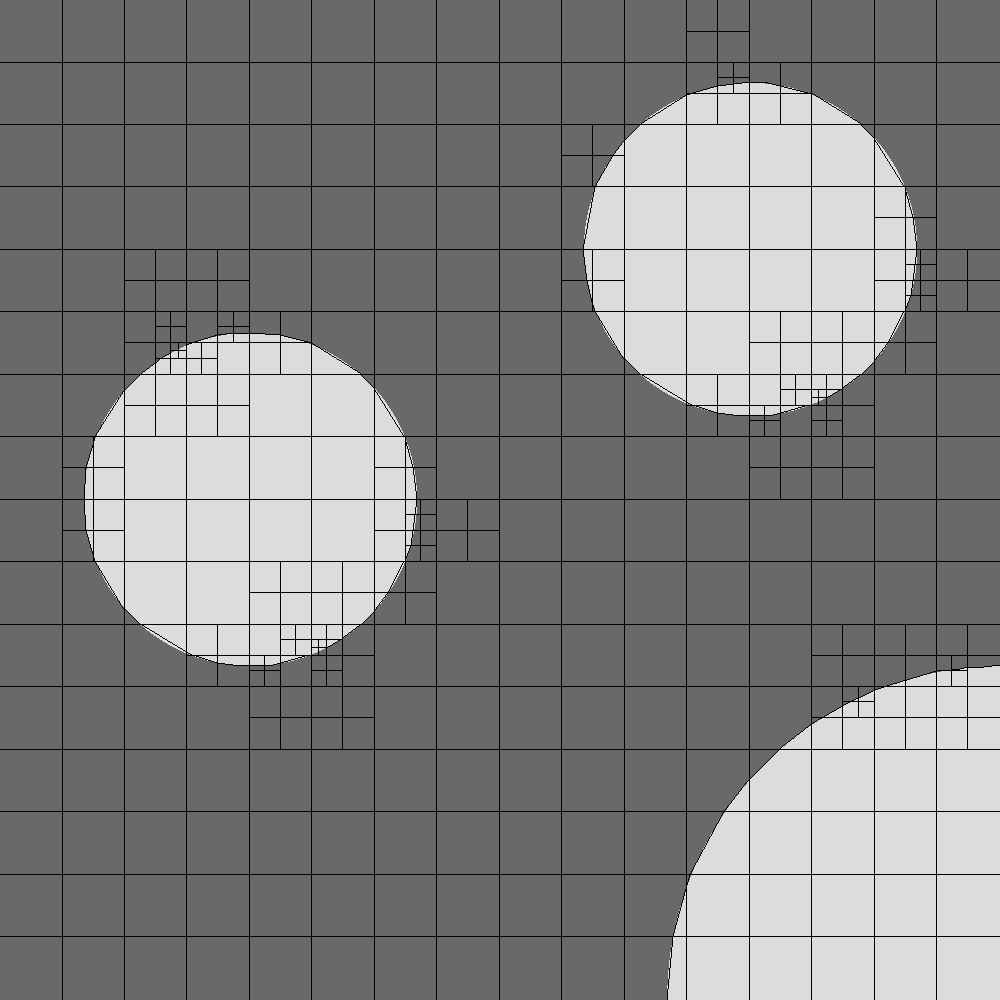
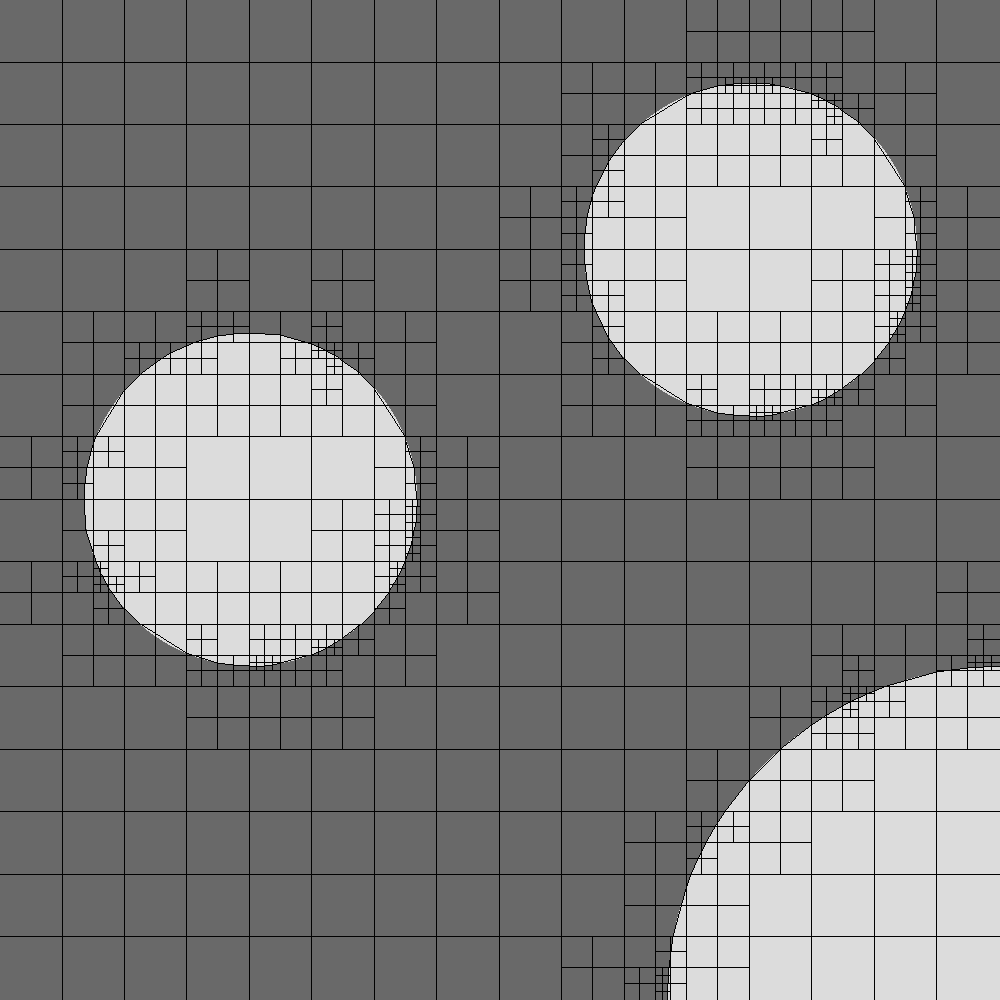
moved the intersection linear search inside the recursion, from the individual cases

diff --git a/main.py b/main.py
@@ -555,7 +555,8 @@ class CNode(Node):
         cMid24 = find_mid_point(p2,p4)
         cMid23 = find_mid_point(p2,p3)
         cMid34 = find_mid_point(p3,p4)
-    
+             
+
         if abs(p1.x - p2.x) >= MAX_SIZE:               
             draw_line(self.outImage,cMid12,cMid34);
             draw_line(self.outImage,cMid14,cMid23);
@@ -576,11 +577,46 @@ class CNode(Node):
                 l3 = ends_in_same_bin(self.inImage,p4,p3);
                 l4 = ends_in_same_bin(self.inImage,p1,p4);
             
-            
+                L1 = linear_search(self.inImage,p1,p2);
+                L2 = linear_search(self.inImage,p2,p3);
+                L3 = linear_search(self.inImage,p4,p3);
+                L4 = linear_search(self.inImage,p1,p4);
+                
+                if len(L2)>1 or len(L4) > 1 or len(L1) > 1 or len(L3) > 1:
+                    return True
+                else:
+                    if len(L1) == 1:
+                        L1 = L1[0]
+                    if len(L2) == 1:
+                        L2 = L2[0]
+                    if len(L3) == 1:
+                        L3 = L3[0]
+                    if len(L4) == 1:
+                        L4 = L4[0]
+                
+                # NW
+                if (l1==0 and l2==1 and l3==1 and l4==0) and (abs(p1.x-p2.x) < 2*MIN_SIZE) :
+                    draw_line(self.outImage, L1, L4)
+                # NE
+                if (l1==0 and l2==0 and l3==1 and l4==1) and (abs(p1.x-p2.x) < 2*MIN_SIZE):
+                    draw_line(self.outImage, L1, L2)
+                # SE
+                if(l1==1 and l2==0 and l3==0 and l4==1) and (abs(p1.x-p2.x) < 2*MIN_SIZE) :
+                    draw_line(self.outImage, L2, L3)
+                # SW
+                if (l1==1 and l2==1 and l3==0 and l4==0) and (abs(p1.x-p2.x) < 2*MIN_SIZE) :
+                    draw_line(self.outImage, L3, L4)
+                # vertical
+                if (l1==0 and l2==1 and l3==0 and l4==1) and (abs(p1.x-p2.x) < 2*MIN_SIZE) :
+                    draw_line(self.outImage, L1, L3)
+                # horizontal
+                if (l1==1 and l2==0 and l3==1 and l4==0) and (abs(p1.x-p2.x) < 2*MIN_SIZE) :
+                    draw_line(self.outImage, L4, L2)
+                    
                 # case 1: interface crossing through L1 and L4
                 if (l1==0 and l2==1 and l3==1 and l4==0) and (abs(p1.x-p2.x) >= 2*MIN_SIZE) :
                 #print "case 1"
-                    vecCoord1 = case_NW_polynomial_test(self,self.inImage,self.outImage,p1,p2,p3,p4);
+                    vecCoord1 = case_NW_polynomial_test(self.inImage,self.outImage,p1,p2,p3,p4,L1,L4);
 
                     if ( vecCoord1[0].x == -1 and (abs(p1.x-p2.x) >= 2*MIN_SIZE) ):
 
@@ -594,7 +630,7 @@ class CNode(Node):
 
                 # case 2: interface crossing through L1 and L2
                 if (l1==0 and l2==0 and l3==1 and l4==1) and (abs(p1.x-p2.x) >= 2*MIN_SIZE):
-                    vecCoord2 = case_NE_polynomial_test(self.inImage,self.outImage,p1,p2,p3,p4);
+                    vecCoord2 = case_NE_polynomial_test(self.inImage,self.outImage,p1,p2,p3,p4,L1,L2);
                     if(vecCoord2[0].x == -1 and (abs(p1.x-p2.x) >= 2*MIN_SIZE) ):
                     #print "case 2"
 
@@ -609,7 +645,7 @@ class CNode(Node):
                 # case 3: interface crossing through L2 and L3
                 if(l1==1 and l2==0 and l3==0 and l4==1) and (abs(p1.x-p2.x) >= 2*MIN_SIZE) :
                 #print "case 3"
-                    vecCoord3 = case_SE_polynomial_test(self.inImage,self.outImage,p1,p2,p3,p4);
+                    vecCoord3 = case_SE_polynomial_test(self.inImage,self.outImage,p1,p2,p3,p4,L2,L3);
                     if(vecCoord3[0].x == -1 and (abs(p1.x-p2.x) >= 2*MIN_SIZE)):
 
                         draw_line(self.outImage,cMid12,cMid34);
@@ -623,7 +659,7 @@ class CNode(Node):
                 # case 4: interface crossing through L4 and L3
                 if (l1==1 and l2==1 and l3==0 and l4==0) and (abs(p1.x-p2.x) >= 2*MIN_SIZE) :
                 #print "case 4"
-                    vecCoord4 = case_SW_polynomial_test(self.inImage,self.outImage,p1,p2,p3,p4);
+                    vecCoord4 = case_SW_polynomial_test(self.inImage,self.outImage,p1,p2,p3,p4,L3,L4);
                     if(vecCoord4[0].x == -1 and (abs(p1.x-p2.x) >= 2*MIN_SIZE)):
  
                         draw_line(self.outImage,cMid12,cMid34);
@@ -636,7 +672,7 @@ class CNode(Node):
                 # case 5: interface crossing through L1 and L3
                 if (l1==0 and l2==1 and l3==0 and l4==1) and (abs(p1.x-p2.x) >= 2*MIN_SIZE) :
                     #print "case 5"
-                    vecCoord5 = case_vertical_polynomial_test(self.inImage,self.outImage,p1,p2,p3,p4);
+                    vecCoord5 = case_vertical_polynomial_test(self.inImage,self.outImage,p1,p2,p3,p4,L1,L3);
                     if(vecCoord5[0].x == -1 and (abs(p1.x-p2.x) >= 2*MIN_SIZE)):
 
                         draw_line(self.outImage,cMid12,cMid34);
@@ -649,7 +685,7 @@ class CNode(Node):
                 # case 6: interface crossing through L4 and L2
                 if (l1==True and l2==False and l3==True and l4==False) and (abs(p1.x-p2.x) >= 2*MIN_SIZE) :
                 #print "case 6"
-                    vecCoord6 = case_horizontal_polynomial_test(self.inImage,self.outImage,p1,p2,p3,p4);
+                    vecCoord6 = case_horizontal_polynomial_test(self.inImage,self.outImage,p1,p2,p3,p4,L2,L4);
                     if(vecCoord6[0].x == -1 and (abs(p1.x-p2.x) >= 2*MIN_SIZE)):
 
                         draw_line(self.outImage,cMid12,cMid34);
@@ -674,7 +710,14 @@ class CQuadTree(QuadTree):
     def __init__(self,rootnode):
         QuadTree.__init__(self, rootnode)
  
- 
+def not_a_corner(root,A):
+    p1,p2,p3,p4 = root.rect
+
+    if ( (A.x != p1.x and A.x != p2.x) and
+         (A.y != p1.y and A.y != p4.y) ):
+        return True
+    return False
+     
 def set_interval(imSize,level):
     my_arr = [0,imSize-1]
     
@@ -891,6 +934,18 @@ def three_neighbor_rule(tree, root, masterNode):
         if root.children[3] != None:
             three_neighbor_rule(tree,root.children[3],masterNode)
 
+def stress_concentration_constraint(tree, root, masterNode):
+
+        print len(root.enrichNodes)
+
+        if root.children[0] != None:
+            stress_concentration_constraint(tree,root.children[0],masterNode)
+        if root.children[1] != None:
+            stress_concentration_constraint(tree,root.children[1],masterNode)
+        if root.children[2] != None:
+            stress_concentration_constraint(tree,root.children[2],masterNode)
+        if root.children[3] != None:
+            stress_concentration_constraint(tree,root.children[3],masterNode)
   
 
 def tomorton(x,y):
@@ -968,10 +1023,10 @@ def get_node_of_neighbor(root,my_ind,neigh_ind):
                
 if __name__ == "__main__":
     print "Reading image in..."
-    inputImage = sitk.ReadImage("images/channels.png");
-    outputImage = sitk.ReadImage("images/channels.png");
-#    inputImage = sitk.ReadImage("images/circles.png");
-#    outputImage = sitk.ReadImage("images/circles.png");
+#     inputImage = sitk.ReadImage("images/channels.png");
+#     outputImage = sitk.ReadImage("images/channels.png");
+    inputImage = sitk.ReadImage("images/circles.png");
+    outputImage = sitk.ReadImage("images/circles.png");
 #    inputImage = sitk.ReadImage((sys.argv[1]));
 #    outputImage = sitk.ReadImage((sys.argv[1]));
 
@@ -1032,15 +1087,19 @@ if __name__ == "__main__":
         three_neighbor_rule(tree, rootNode, masterNode)
         newTotalNumberOfNodes = tree.count_nodes(rootNode)
     
+    print newTotalNumberOfNodes
+#     masterNode = rootNode
+#     stress_concentration_constraint(tree,rootNode,masterNode)
     
     masterNode = rootNode
-    node = CNode.get_child(masterNode,'2')
-    print number_of_generations(tree, node, masterNode), node.depth
+#     node = CNode.get_child(masterNode,'2')
+#     print number_of_generations(tree, node, masterNode), node.depth
     llist = []
     tree_list_of_nodes = get_list_of_nodes(tree,rootNode,masterNode,llist)
     print len(tree_list_of_nodes)
 #    print CNode.get_child(masterNode,'21213').mat
 #    
     print 'writing the image out'
-#    sitk.WriteImage(outputImage,"outCircles.png");
-    sitk.WriteImage(outputImage,"outChannels.png");
+
+    sitk.WriteImage(outputImage,"outCircles.png");
+#     sitk.WriteImage(outputImage,"outChannels.png");
